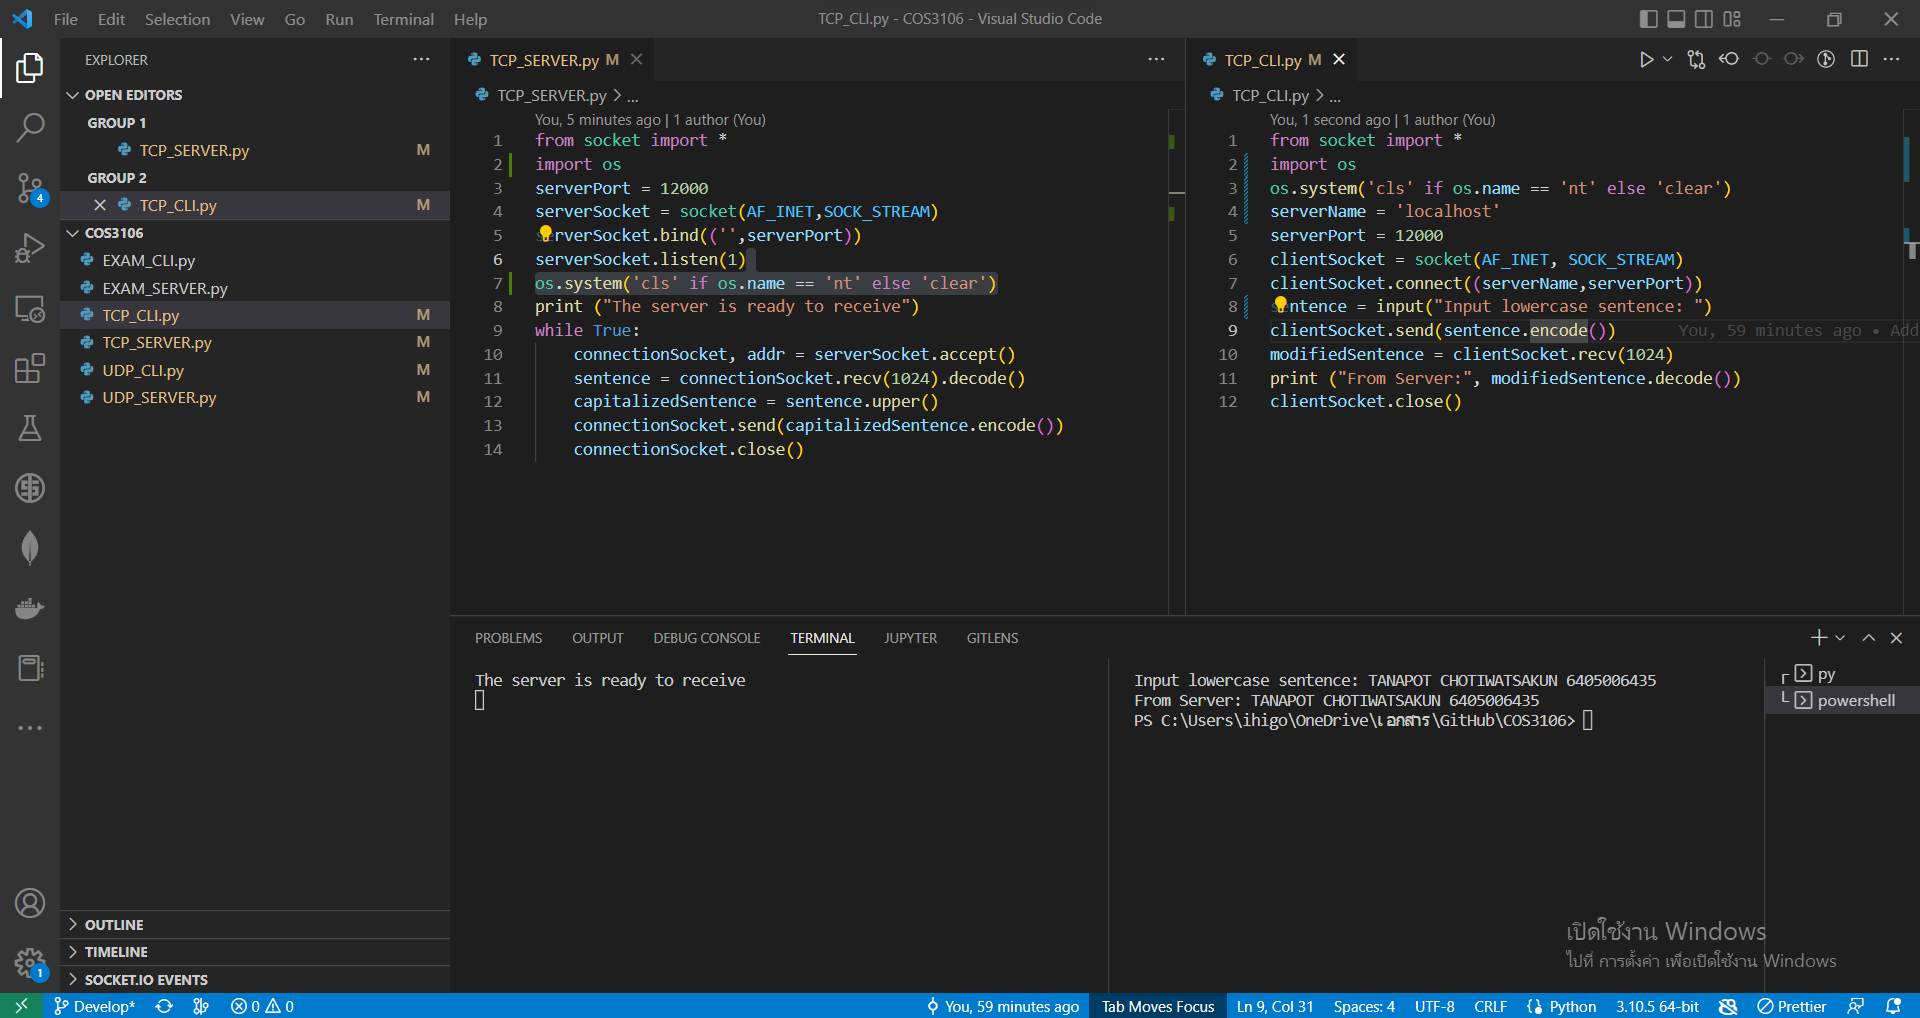
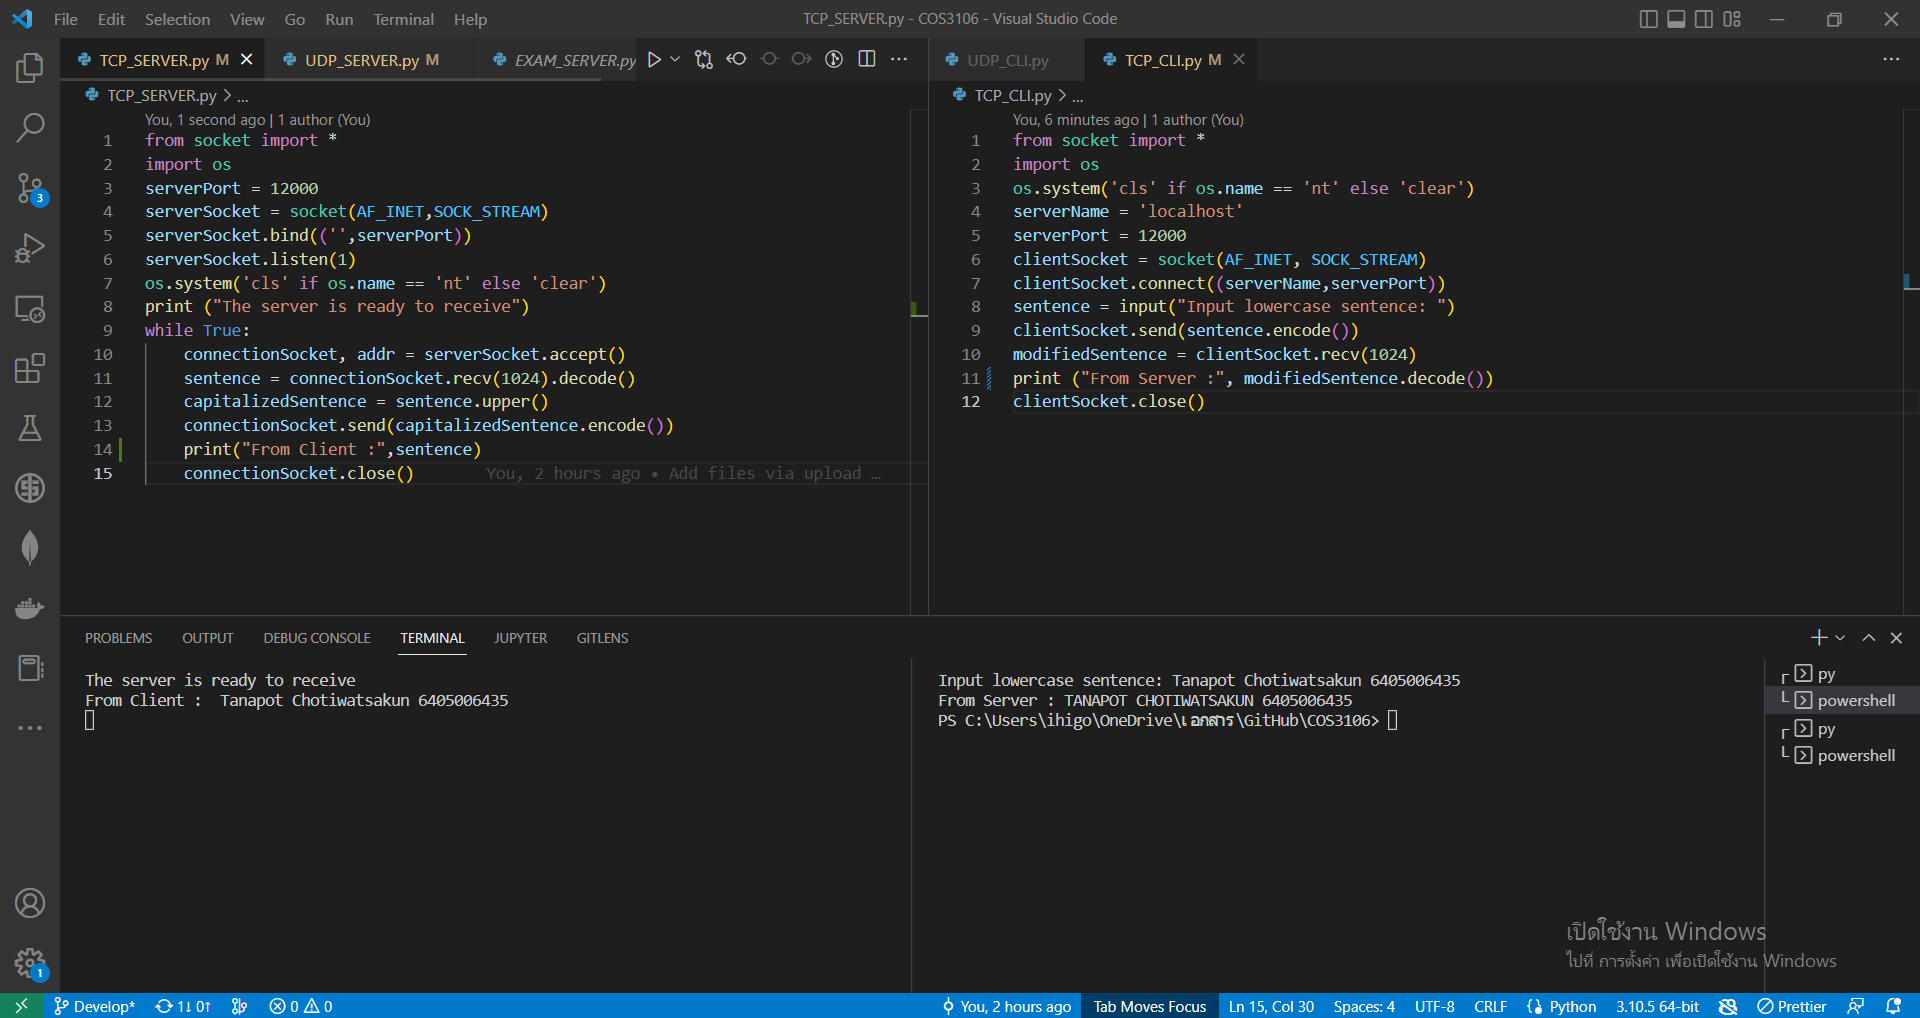
Print mesage from CLI & Server

diff --git a/UDP_CLI.py b/UDP_CLI.py
@@ -6,5 +6,5 @@ clientSocket = socket(AF_INET,SOCK_DGRAM)
 message = input("Input lowercase sentence: ")
 clientSocket.sendto(str.encode(message),(serverAddressPort))
 modifiedMessage, serverAddress = clientSocket.recvfrom(2048)
-print (modifiedMessage.decode())
+print ("From Server :",modifiedMessage.decode())
 clientSocket.close()

diff --git a/TCP_CLI.py b/TCP_CLI.py
@@ -8,5 +8,5 @@ clientSocket.connect((serverName,serverPort))
 sentence = input("Input lowercase sentence: ")
 clientSocket.send(sentence.encode())
 modifiedSentence = clientSocket.recv(1024)
-print ("From Server:", modifiedSentence.decode())
+print ("From Server :", modifiedSentence.decode())
 clientSocket.close()

diff --git a/UDP_SERVER.py b/UDP_SERVER.py
@@ -8,5 +8,5 @@ print ("The server is ready to receive")
 while True: 
     message, clientAddress = serverSocket.recvfrom(2048) 
     modifiedMessage = message.decode().upper() 
-    print(message)
+    print("From Client :",modifiedMessage)
     serverSocket.sendto(modifiedMessage.encode(),clientAddress) 

diff --git a/TCP_SERVER.py b/TCP_SERVER.py
@@ -11,4 +11,5 @@ while True:
     sentence = connectionSocket.recv(1024).decode()
     capitalizedSentence = sentence.upper()
     connectionSocket.send(capitalizedSentence.encode())
+    print("From Client :",sentence)
     connectionSocket.close() 
